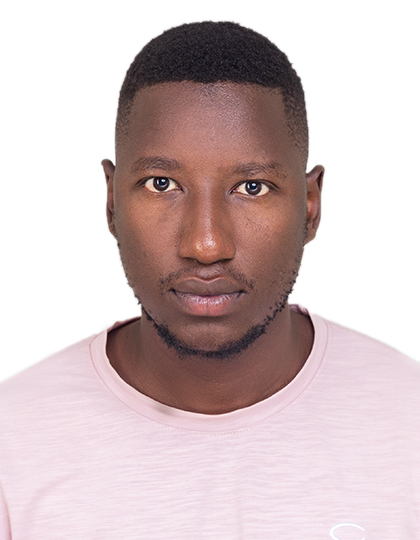
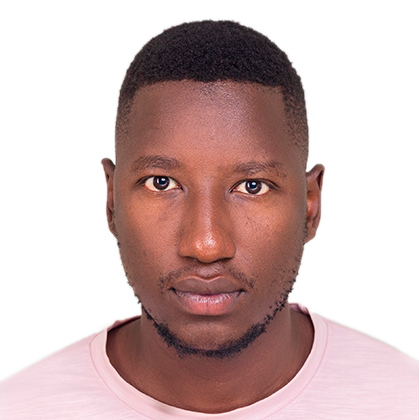
make photo square, move Bruno back

diff --git a/content/team/geoffrey_olweny.md b/content/team/geoffrey_olweny.md
@@ -4,7 +4,7 @@ first = "Geoffrey"
 last = "Olweny"
 email = "geoffrey.olweny [at] medunigraz.at"
 status = "active"
-position = "PhD candidate"
+position = "PhD student"
 twitter = "https://x.com/joffiiii"
 bluesky = ""
 mastodon = ""

diff --git a/content/team/bruno.md b/content/team/bruno.md
@@ -10,7 +10,7 @@ bluesky = ""
 mastodon = ""
 orcid = ""
 website = ""
-date = "2024-04-08"
+date = "2042-04-08"
 +++
 
 <!-- Very short bio here -->
